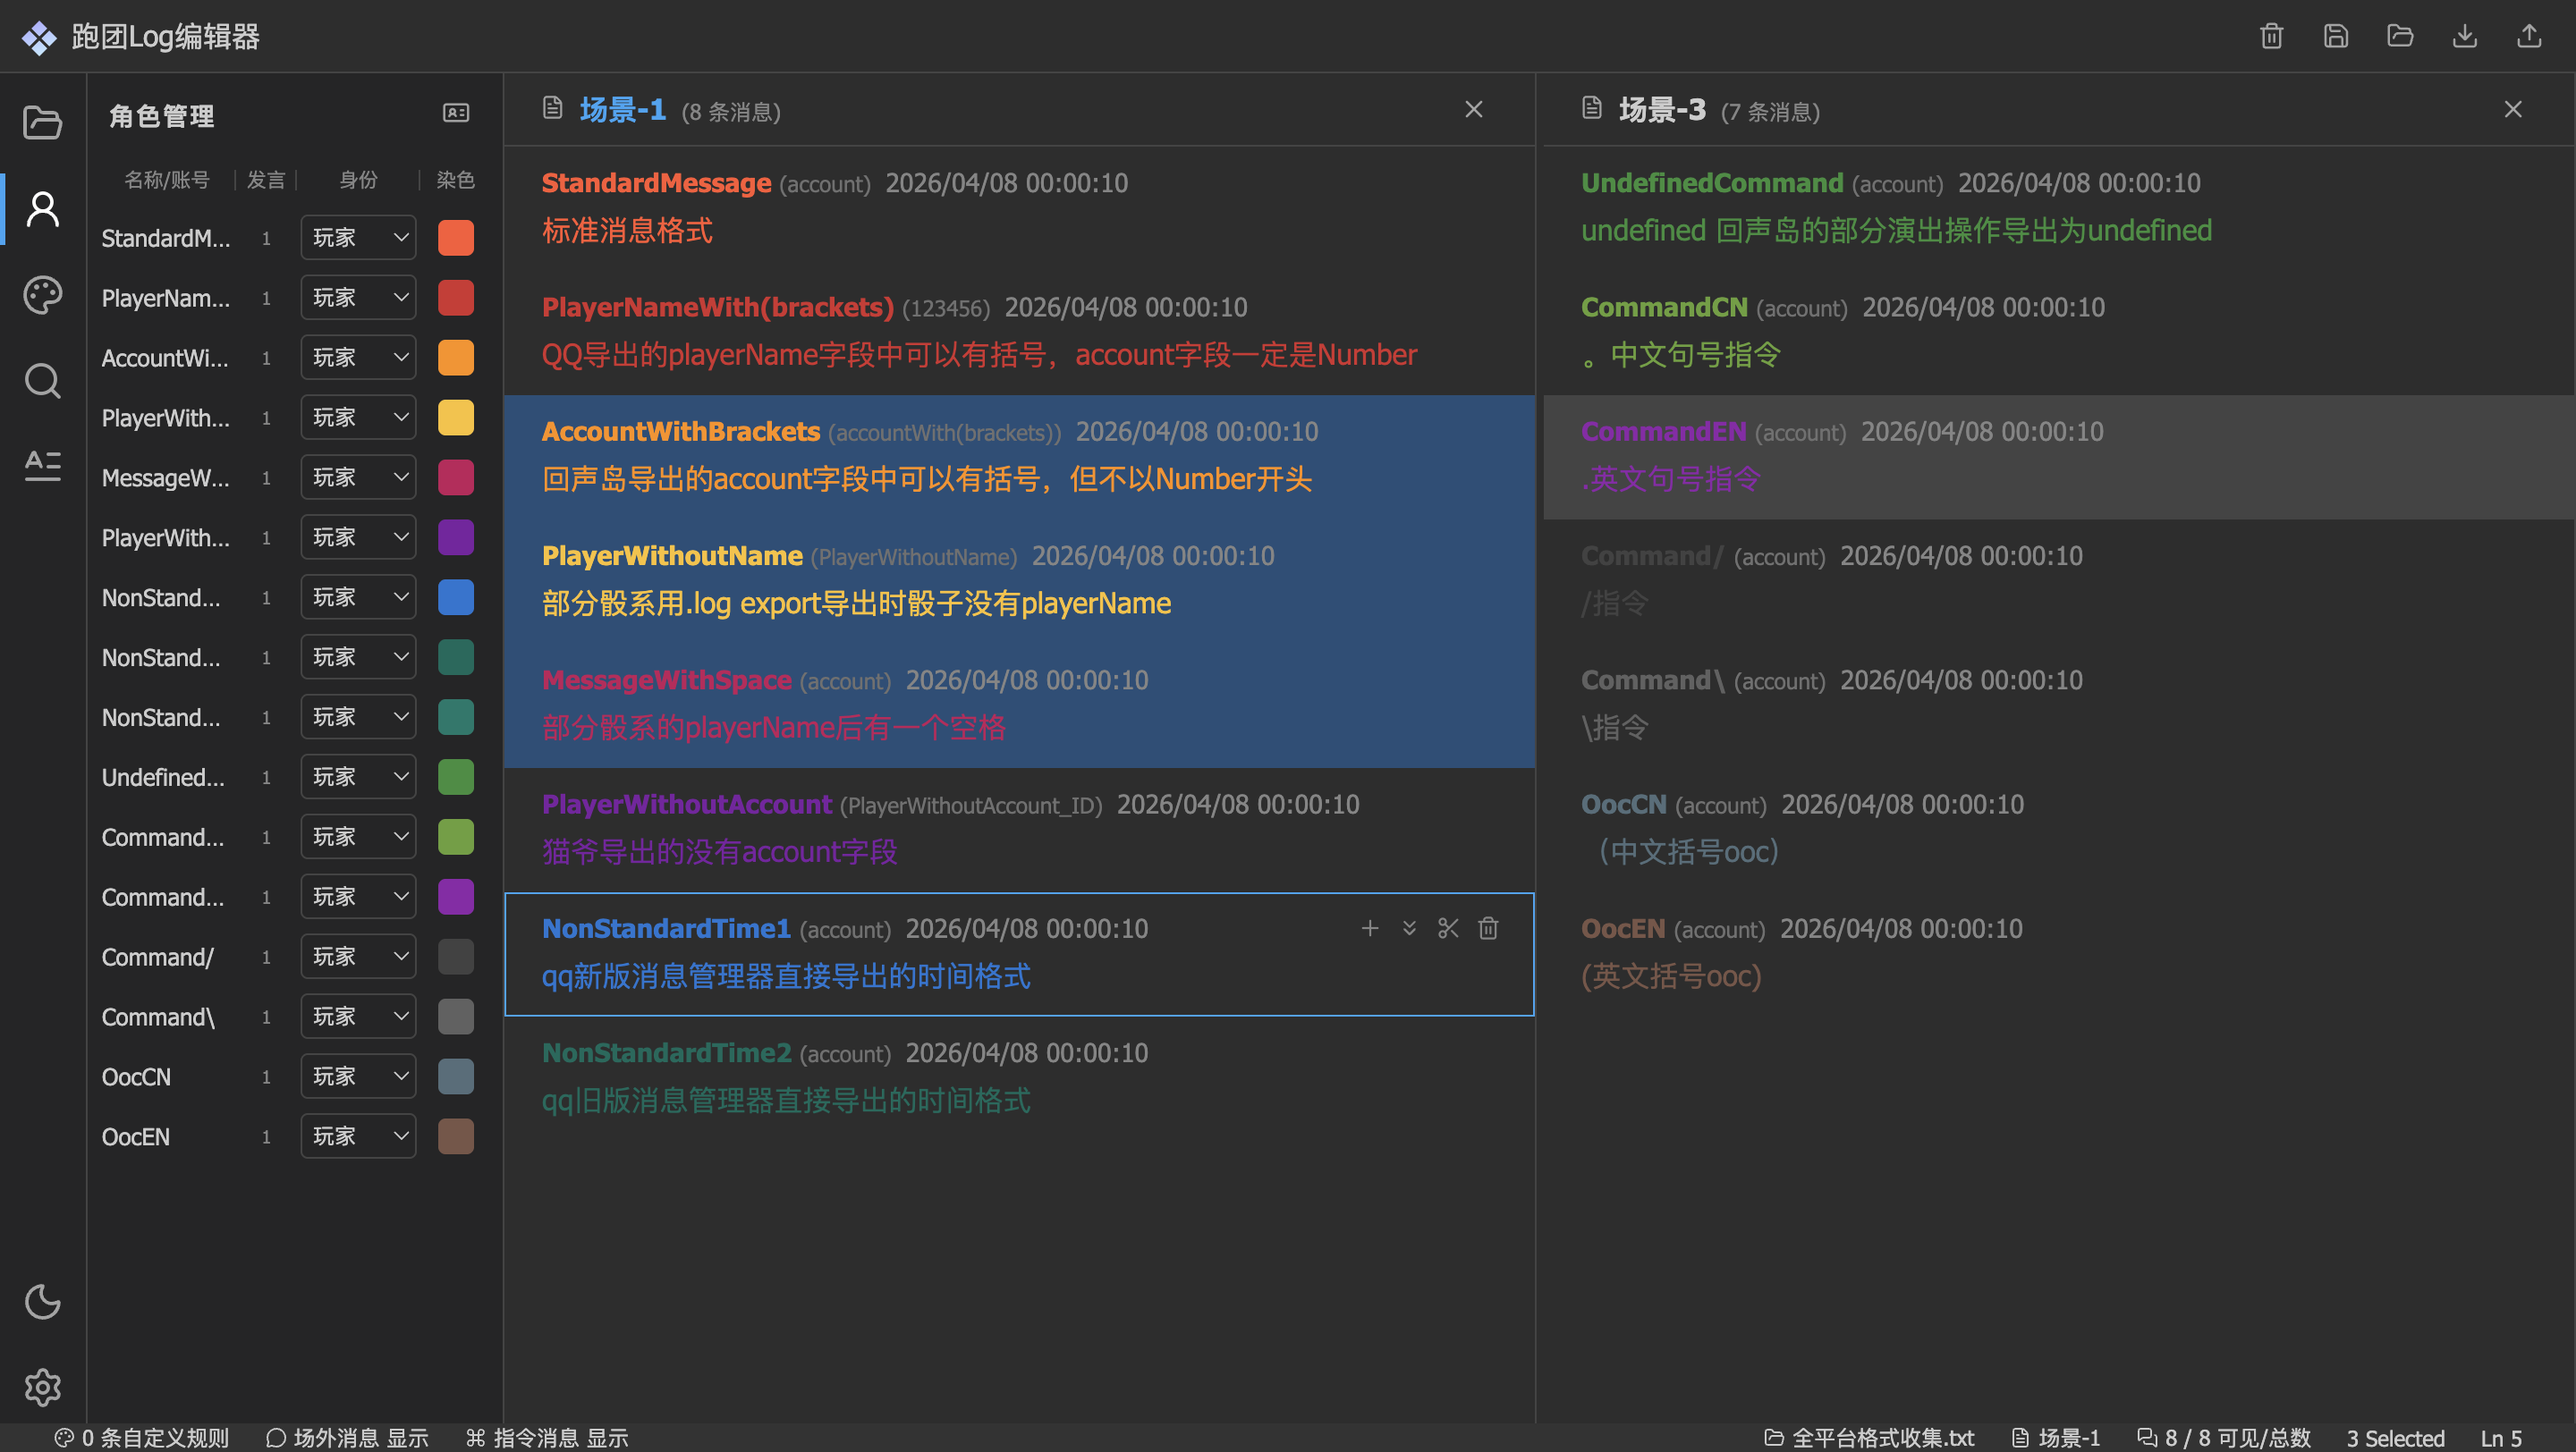
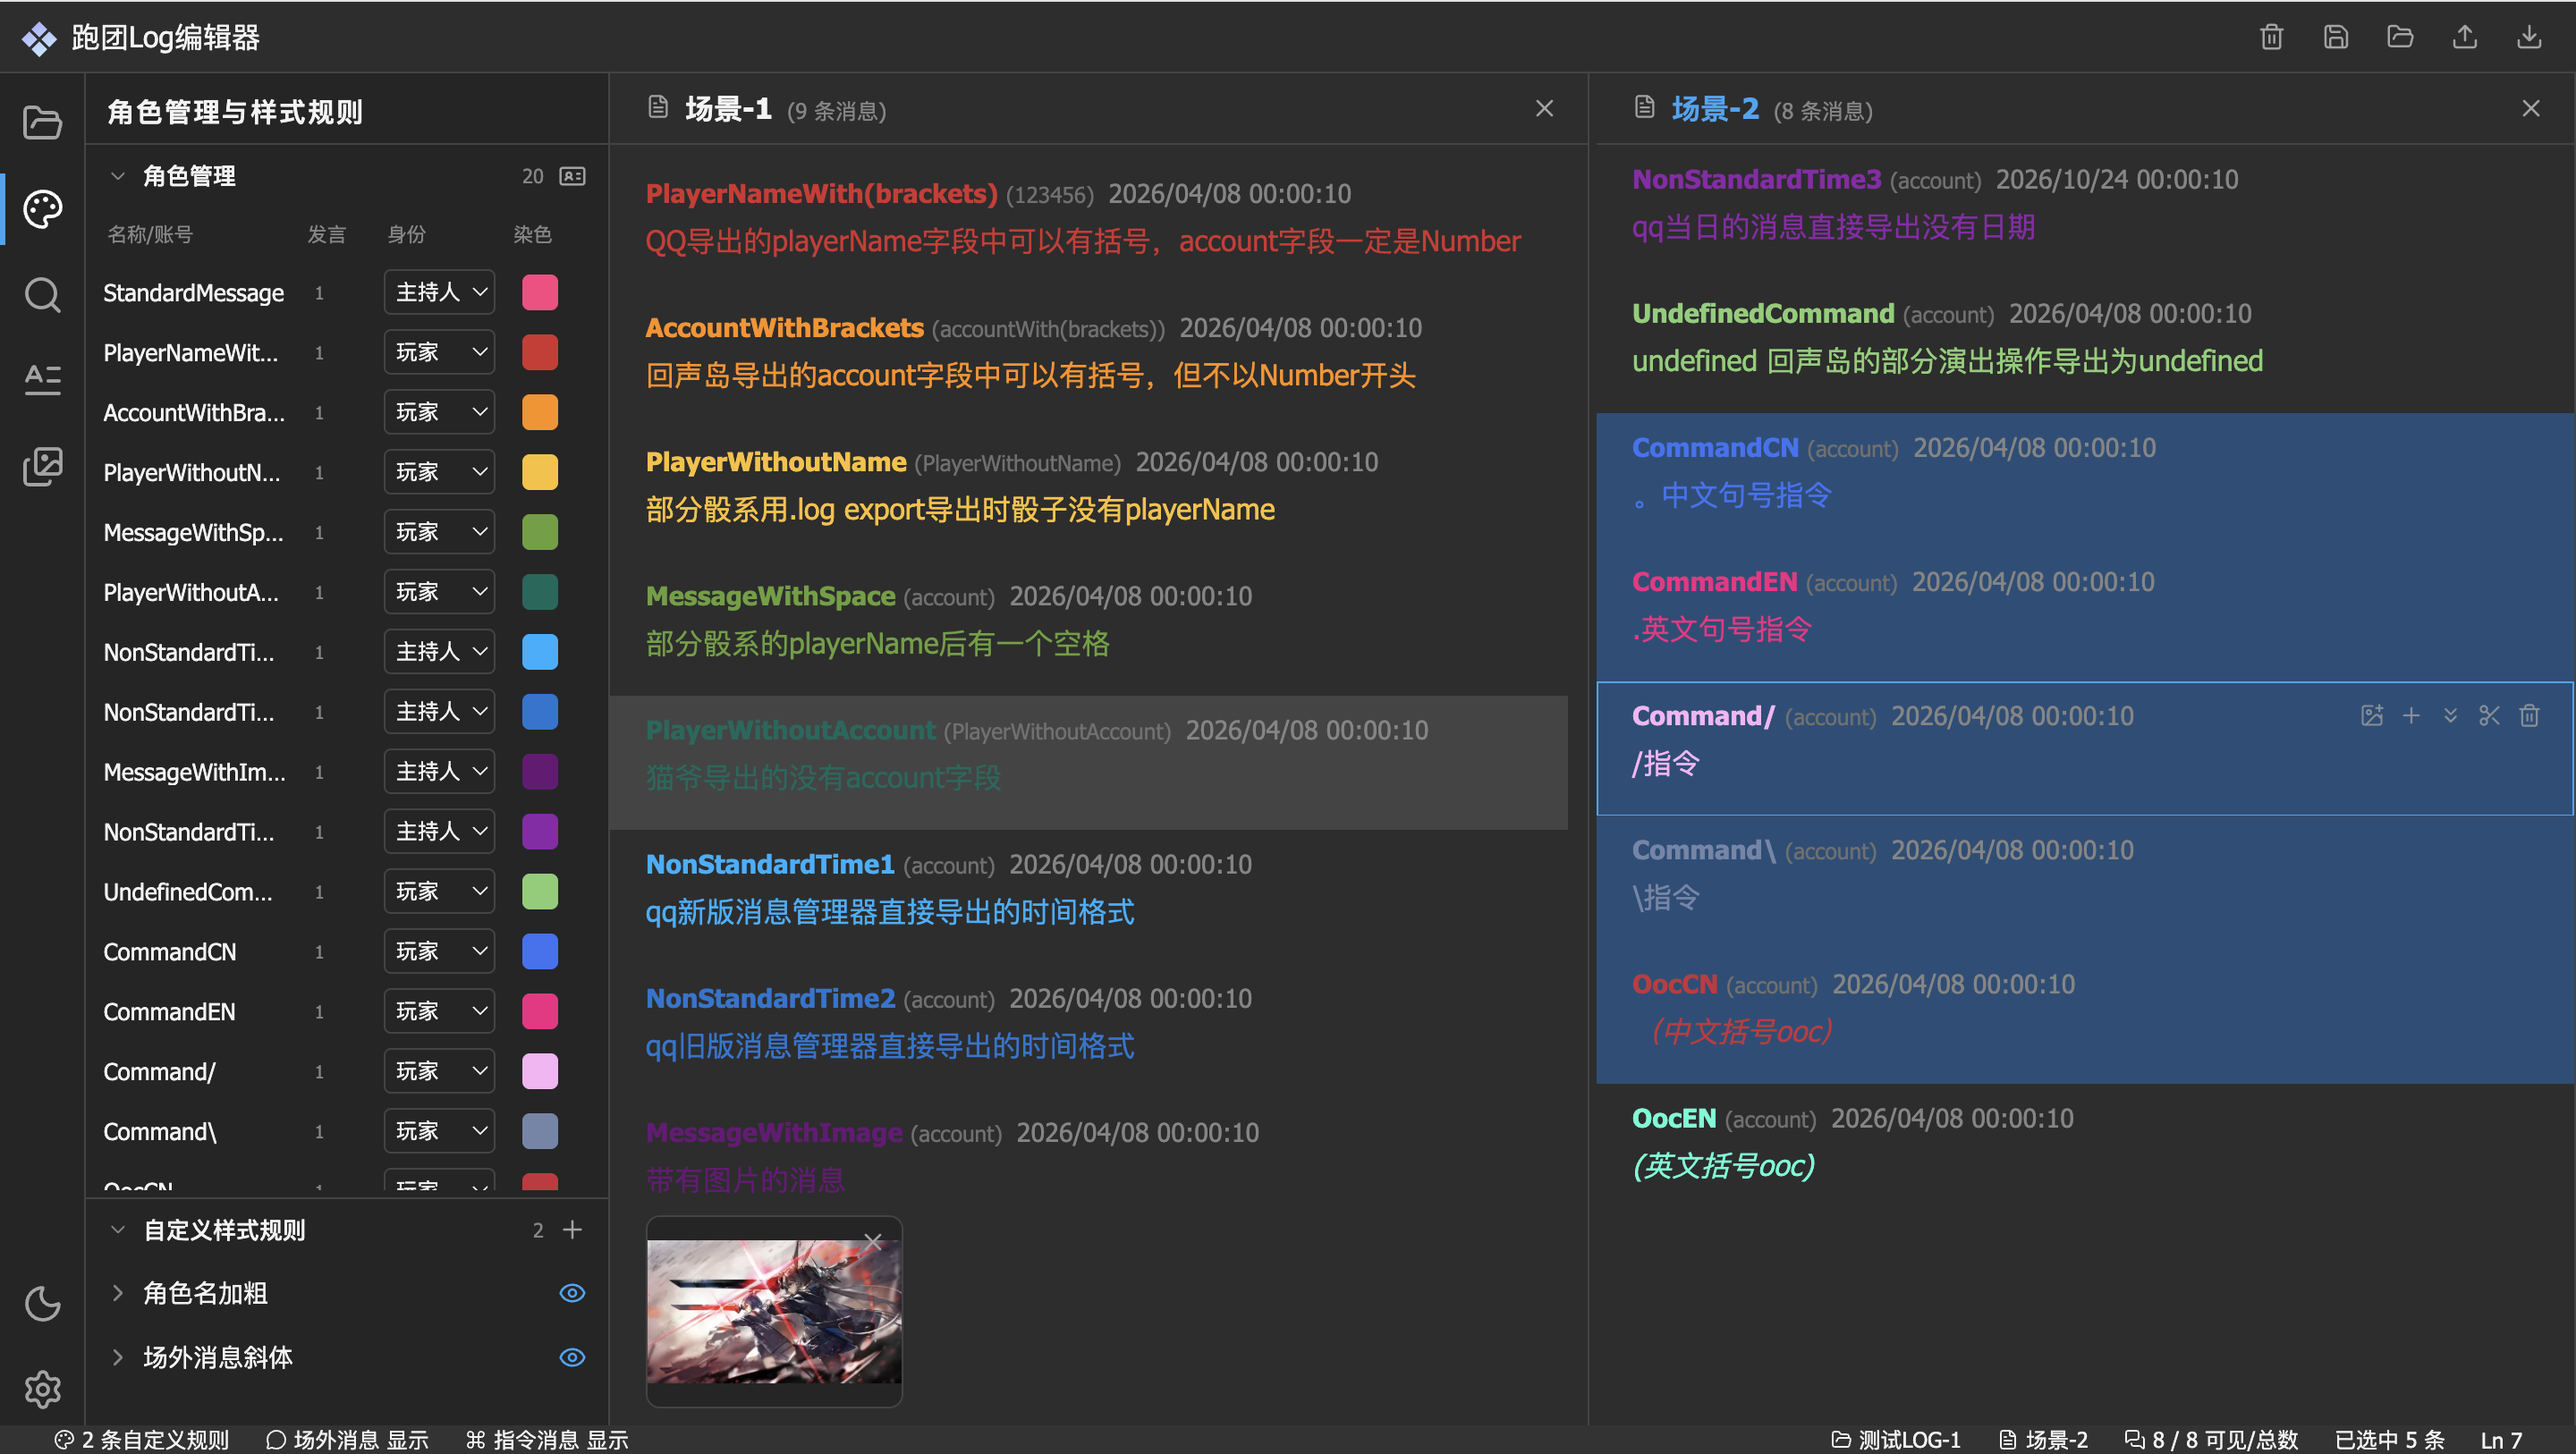
docs: 更新预览图和 README 文件

diff --git a/README.md b/README.md
@@ -193,13 +193,15 @@ src/
 
 消息分隔符填写 `\n\n`，即可按标准日志布局输出。幕间和场景分隔符中的 `{{name}}` 分别表示文档名和场景名。
 
-“隐藏场外消息”和“隐藏指令消息”也会从导出预览、文件及导出到剪切板的内容中排除对应消息。“显示已隐藏消息”只影响编辑区，不会将这些消息重新加入导出。工程 JSON 仍保留全部消息。
+“隐藏场外消息”和“隐藏指令消息”也会从导出预览、文件及导出到剪切板的内容中排除对应消息。“显示已隐藏消息”只影响编辑区，不会将这些消息重新加入导出，工程 JSON 仍保留全部消息。
 
-每张附件在正文之后独立导出，使用图片消息模板。`{{image}}` 优先读取本地副本：TEXT 输出 Data URI，可自行填写 `![{{imageName}}]({{image}})` 或 `[img]{{image}}[/img]` 以适配 Markdown/BBCode；HTML/DOC 内嵌图片；DOCX 将本地图片写入文件，WebP 转为 PNG，大图按页面等比缩小。
+每张附件在正文之后独立导出，使用图片消息模板。
 
-没有本地副本时，TEXT/DOCX 输出原始链接，HTML/DOC 使用远程图片链接；没有链接时使用 `[图片]`。`{{imageUrl}}` 始终只输出原始链接纯文本，不会被替换为二进制或图片标签。导出不会自动下载远程资源，图片也不依赖 Markdown 开关。自定义占位可直接填写在图片消息模板中。
+`{{image}}` 优先读取本地副本：TEXT 输出 Data URI，可自行填写 `![{{imageName}}]({{image}})` 或 `[img]{{image}}[/img]` 以适配 Markdown/BBCode；HTML/DOC 内嵌图片；DOCX 将本地图片写入文件，WebP 转为 PNG，大图按页面等比缩小。
 
-TEXT 不包含染色和富文本样式。HTML 渲染 Markdown；DOCX 支持加粗、斜体等部分格式，列表、引用和表格会转为文本布局，不嵌入 Markdown 图片，也不生成可点击的超链接。DOC 的 Word 兼容 HTML 适配器保留在代码中，当前菜单没有 DOC 导出入口。
+没有本地副本时，TEXT/DOCX 输出原始链接，HTML/DOC 使用远程图片链接，没有链接时使用 `[图片]` 作为占位符。
+
+`{{imageUrl}}` 始终只输出原始链接纯文本，不会被替换为二进制或图片标签，导出不会自动下载远程资源。
 
 ### 快捷键
 
